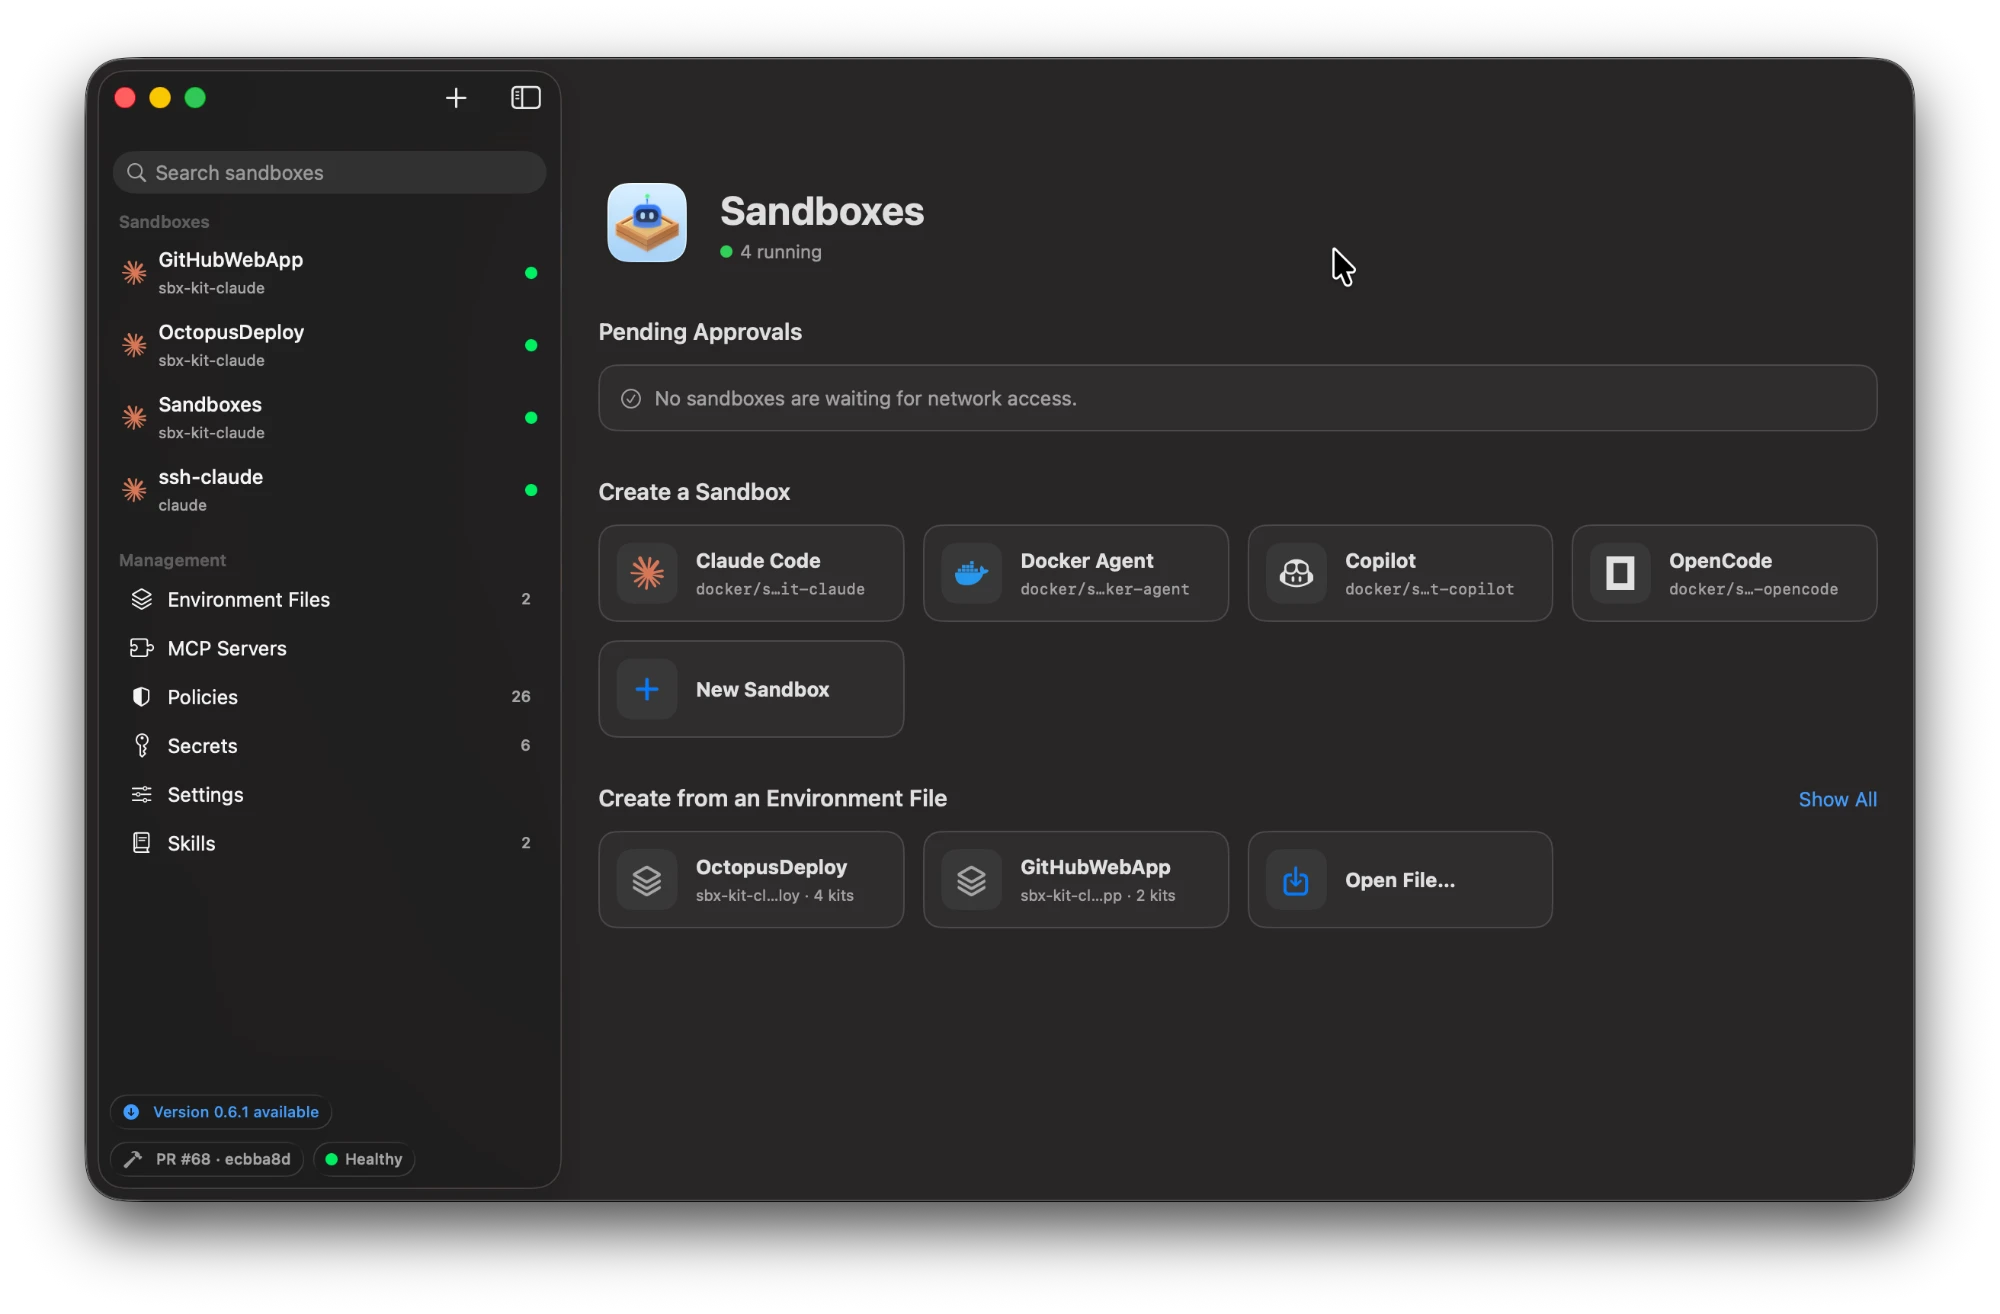
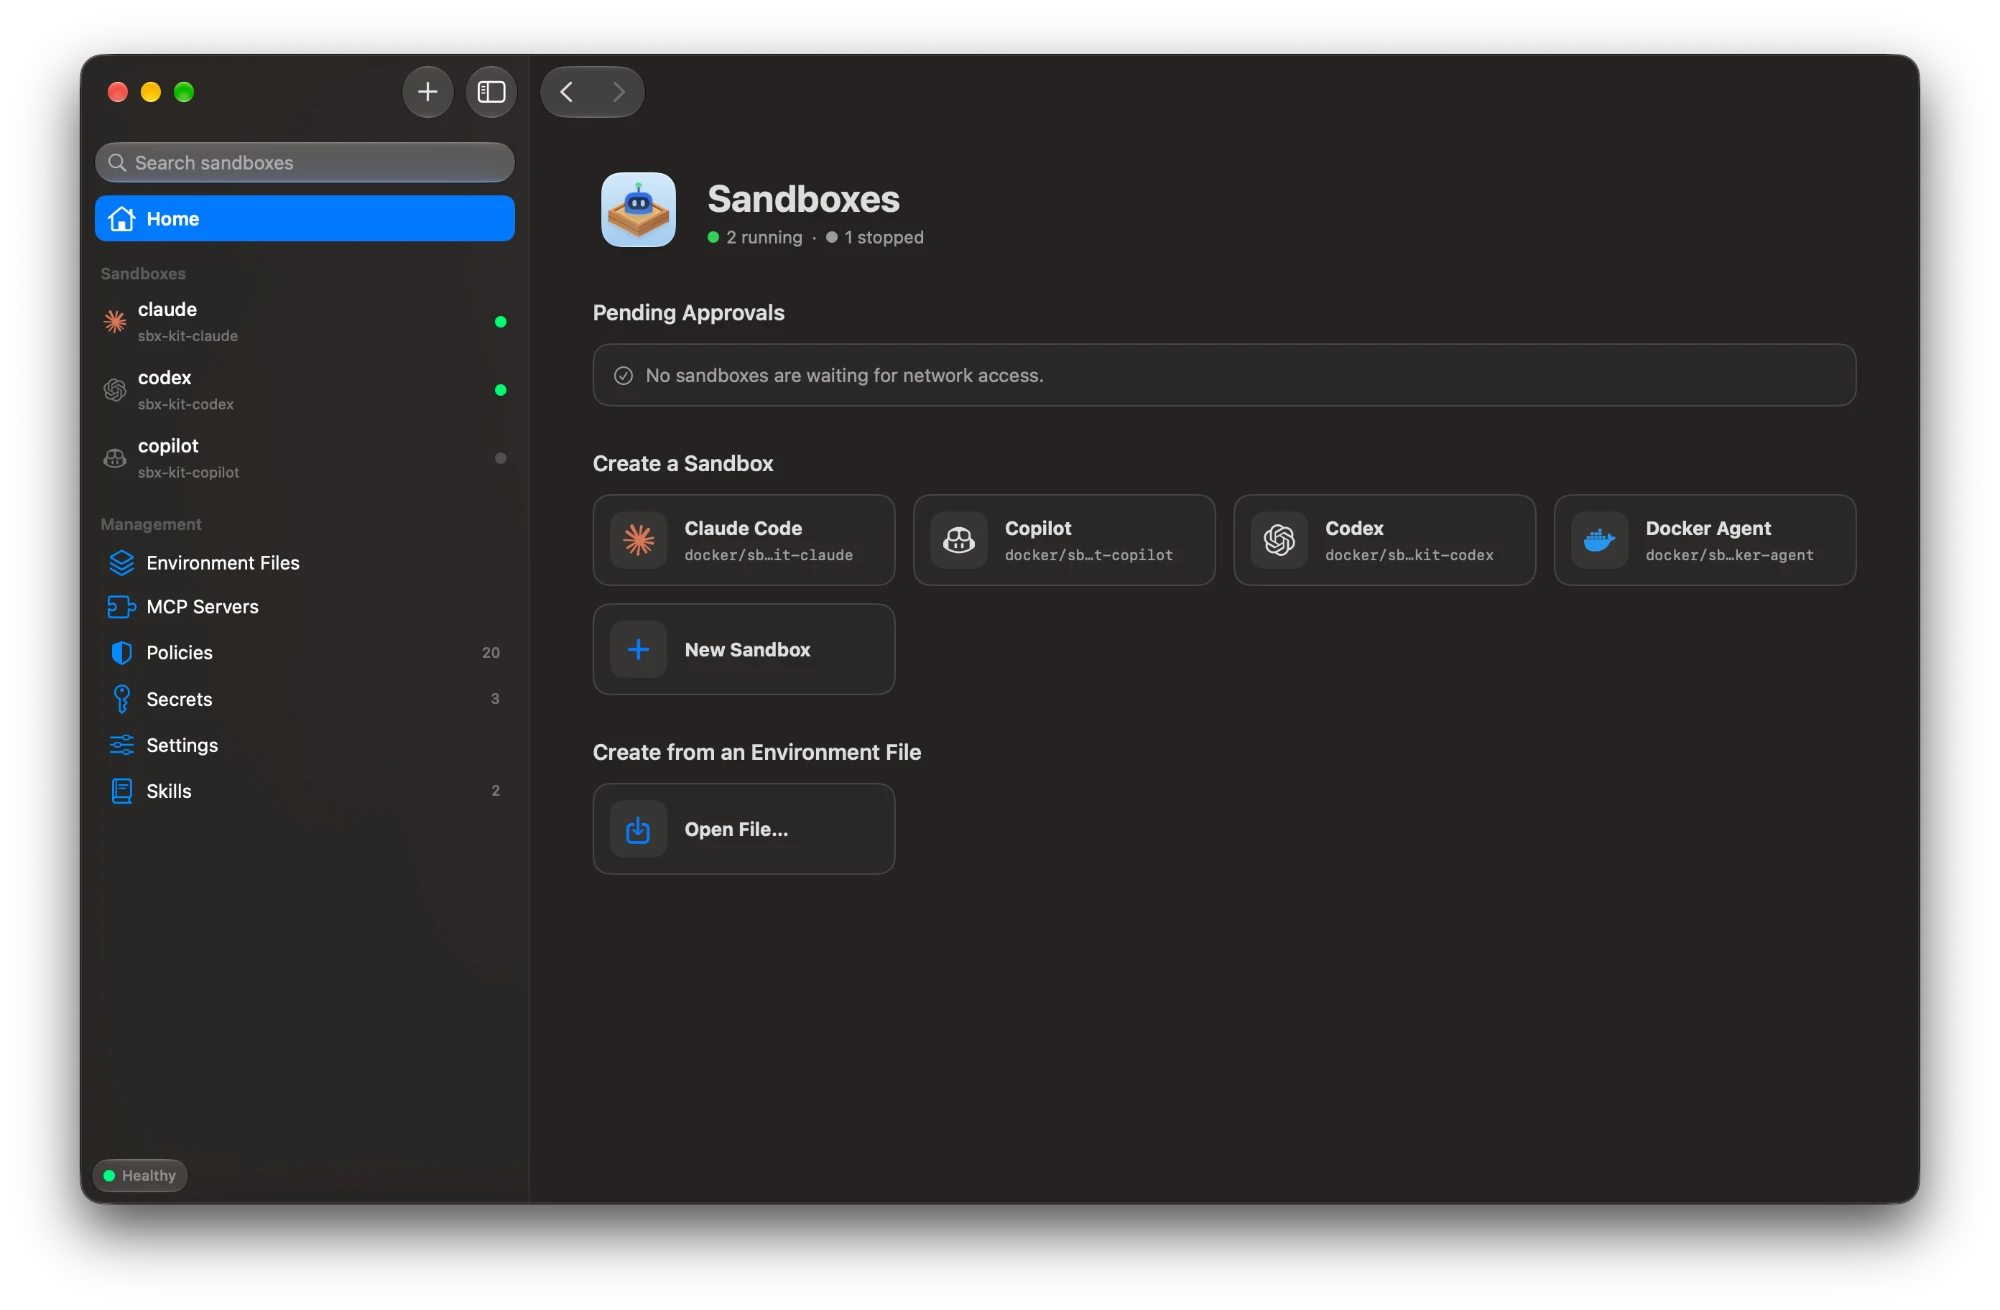
Use a real screenshot of the main window on the website

diff --git a/site/index.html b/site/index.html
@@ -44,7 +44,7 @@
       <!-- Window screenshots (Shift-Command-4, then Space) keep their own title
            bar and shadow. Their width and height are in points, half the
            Retina capture's pixels. -->
-      <img class="shot main-shot" src="screenshots/main-window.webp" width="1000" height="657" alt="The Sandboxes main window, with four running sandboxes in the sidebar, and buttons to create a sandbox from an agent or an environment file">
+      <img class="shot main-shot" src="screenshots/main-window.webp" width="1000" height="655" alt="The Sandboxes main window, with three sandboxes in the sidebar, two of them running, and buttons to create a sandbox from an agent or an environment file">
     </div>
   </header>
 
